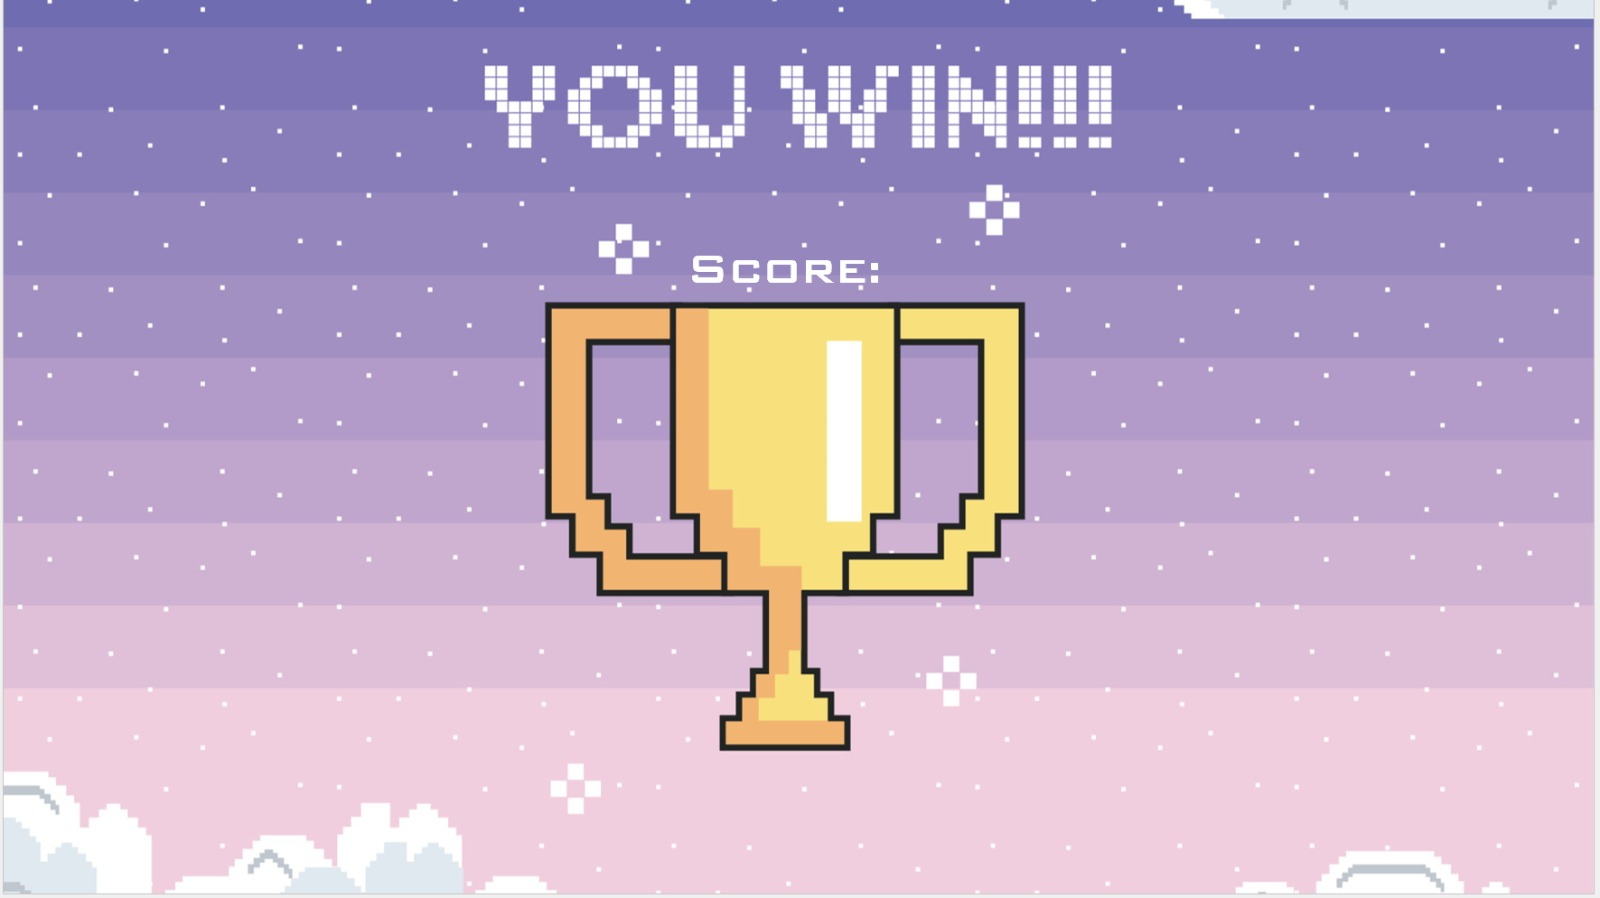
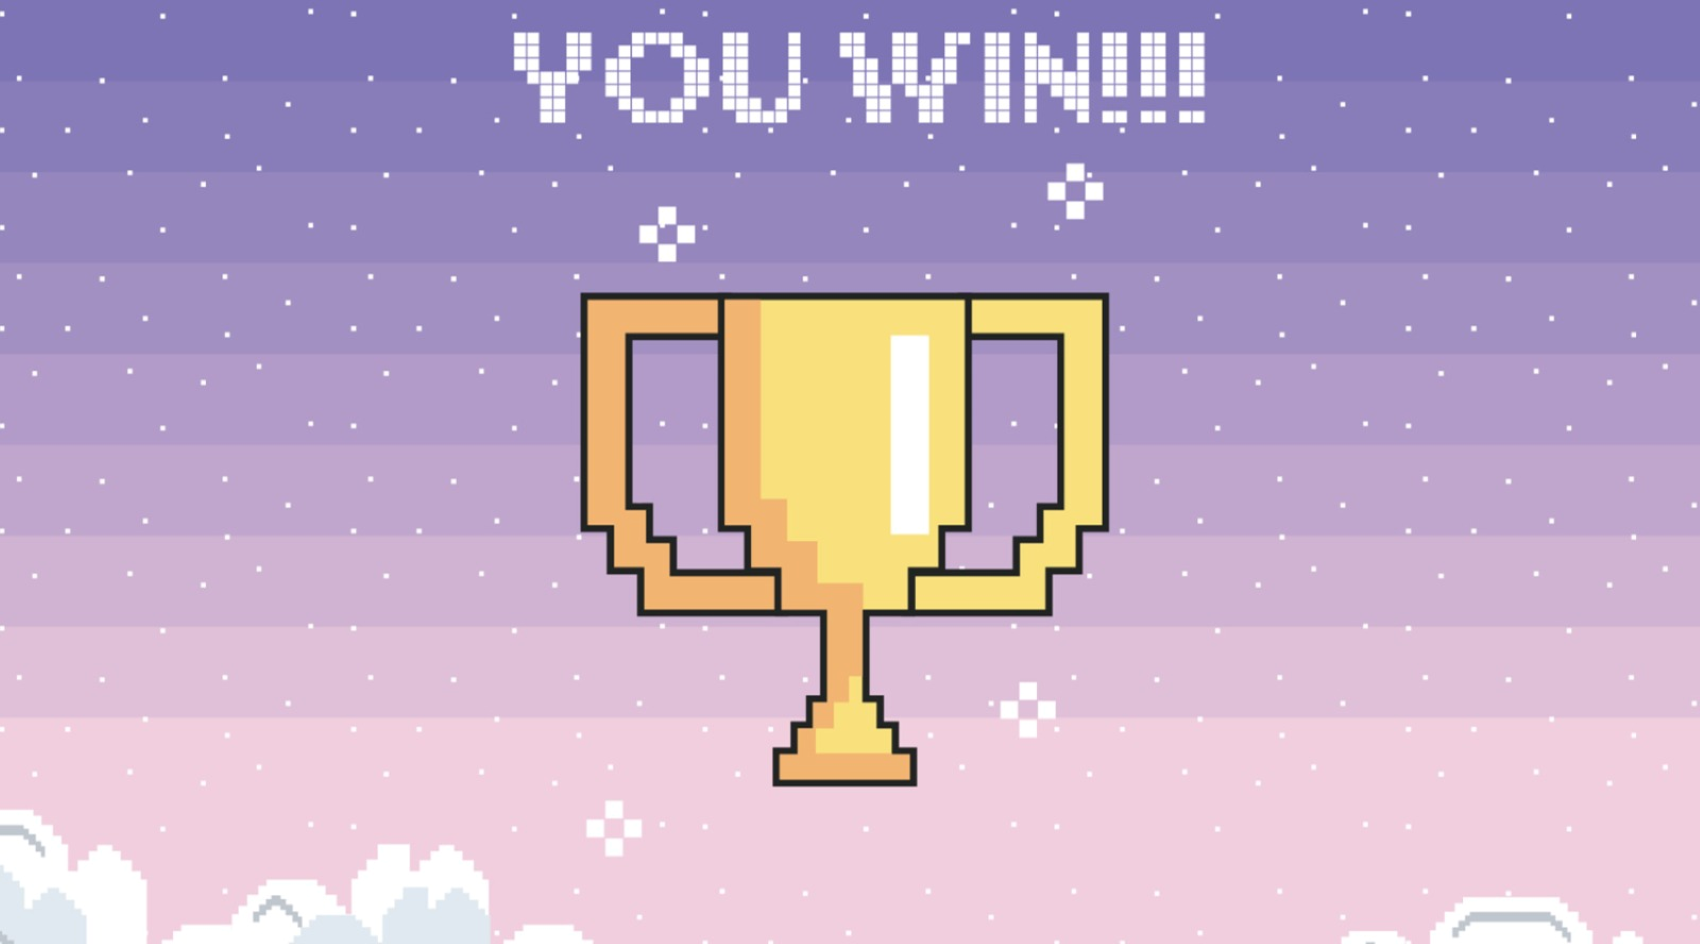
good win and lose

diff --git a/src/GameControl.cpp b/src/GameControl.cpp
@@ -127,7 +127,7 @@ void GameControl::startGame()
             elapsedTime += timer.restart();
             sf::Sprite screen;
             screen.setTexture(*Manage::getInstance()->getTexture(O_WIN));
-            screen.setScale(WIDTH, LENGTH);
+           // screen.setSize({ WIDTH, LENGTH });
             m_window.draw(screen);
             m_window.display();
         }
